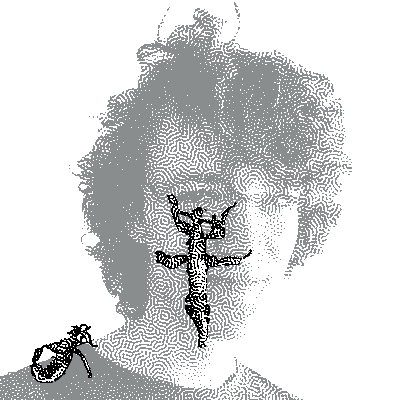
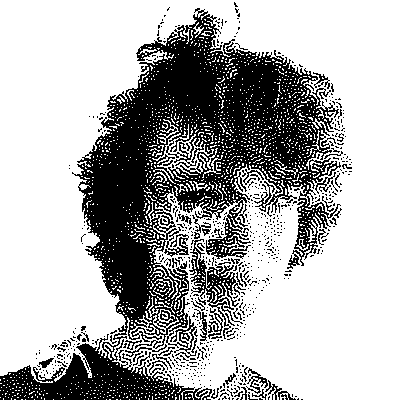
flashbang

diff --git a/main.css b/main.css
@@ -1,7 +1,9 @@
+/* CREDITS
+https://readable-css.freedomtowrite.org/
+*/
 /* COLOURS 
 white and black should be same hue
 limit to 4, use dithering for more 
-
 check and edit contrast at https://webaim.org/resources/contrastchecker/
 
 bg = background
@@ -9,30 +11,7 @@ fg = foreground (text)
 pri = primary (internal links)
 sec = secondary (external links, highlights etc.)
 */
-
-/* light mode */
-/*
---bg : var(--white);
---fg: var(--black);
---pri: var(--green);
---sec: var(--red);
-*/
-
-/* dark mode */
-/*
---bg : var(--black);
---fg: var(--white);
---pri: var(--green);
---sec: var(--red);
-*/
-
 :root {
-    /* previously */
-    --pri: olive;
-    --sec: firebrick;
-    /* --white: bisque;
-    --black: #111111; */
-
     /* https://lospec.com/palette-list/vintage-ruby */
     /* --pri: #868645;
     --sec: #792639; */
@@ -43,9 +22,8 @@ sec = secondary (external links, highlights etc.)
     /* nice for dark mode */
     /* --pri: #647859;
     --sec: #7c3838; */
-    --black: #1E1D11;
-    --white: #F8F7F2;
-
+    /* --black: #1E1D11; */
+    /* --white: #F8F7F2; */
 
     /* https://pokemondb.net/sprites/xatu */
     /* --pri: #52BD6B;
@@ -53,33 +31,33 @@ sec = secondary (external links, highlights etc.)
     /* --white: #EFEFEF;
     --black: #0E0D11; */
 
-    --fg: var(--black); --bg: var(--white);
+    --black: #000000; 
+    --white: #FFFFFF;
+    --pri: olive;
+    --sec:  #990000;
+    --fg: var(--black); 
+    --bg: var(--white);
 }
-
 /* DARK MODE */
 @media (prefers-color-scheme: dark) {
     :root {--bg: var(--black); --fg: var(--white);}
 
-    /* img darkmode from https://wiki.xxiivv.com/links/main.css */
-    img[src*="svg"], img[src*="png"] { 
+    /* from https://wiki.xxiivv.com/links/main.css */
+    /* img[src*="svg"], img[src*="png"] */ * {
         /* color: var(--bg);
         background-color: var(--fg);  */
-        filter:invert(1) hue-rotate(180deg);
+        filter:invert(1)  hue-rotate(180deg);
     } 
 }
-
-/* ?? */
-* {
+* { /* ?? */
     box-sizing: border-box; 
 }
-
 html {
     max-width: 900px;
 	margin: 0 auto;
     margin-right: auto;
     margin-left: 24px
 }
-
 body {
     /* display: flex;
 	flex-direction: row;
@@ -90,28 +68,20 @@ body {
     background-color: var(--bg);
     color: var(--fg);
 }
-
+header pre {
+    font-size: 1.2vw; /* magic number to get textmode header always fitting viewport */
+}
 main, footer {
     max-width: 700px;
     padding: 12px 24px 24px 24px;
 }
-
 aside {
     text-align: center;
 }
-
 img {
-    border:dotted 1px;
+    image-rendering: crisp-edges;
+    /* border: wavy black 1px; */
 }
-
-/* stretch to always fit on screen */
-header pre {
-    font-size: 1.75vw; /* magic number to get textmode header always fitting viewport */
-}
-pre a, pre a:hover {
-    text-decoration: none;
-}
-
 footer{
     text-align: center;
 }
@@ -119,13 +89,15 @@ footer img, a img {
     stroke: var(--pri);
     height: 32px;
 }
-
-/* links */
+/* LINKS */
+pre a, pre a:hover {
+    text-decoration: none;
+}
 a, a:visited {
     color: var(--fg);
     text-decoration-line: underline;
+    text-decoration-style: solid;
     text-decoration-thickness: 1px;
-    /* text-decoration-style: dotted; */
     text-decoration-color: var(--pri);
 }
 a:hover {
@@ -137,31 +109,17 @@ a[target="_blank"]{
     color: var(--fg);
     text-decoration-color: var(--sec);
 }
-/* show biohazard signs for commercial content silos */
+/* TODO show biohazard signs for commercial content silos */
 a[target="_blank"]:hover{
     color: var(--sec);
 }
-a[target="_blank"]:after {
+a[target="_blank"]::after {
     /* content: "↝"; */
     content: "~"; 
     color: var(--sec);
     text-decoration: none;
 }
-
-
-/* table {
-    width: 100px; 
-    height: 100px;
-} */
-
-table td {
-    width: 100px;
-}
-
-table tr {
-    width: 100px
-}
-
+/* FLAIR */
 hr {
     border: none;
     /* border-top: 3px double #333; */
@@ -170,10 +128,19 @@ hr {
     text-align: center;
     height: 2px;
   }
-
 hr::after {
-    content: '⁂';
+    content: '⁂'; /* &#8258; &#x2042; */
     padding: 0 4px;
     position: relative;
     top: -13px;
   }
+/* table {
+    width: 100px; 
+    height: 100px;
+} */
+table td {
+    width: 100px;
+}
+table tr {
+    width: 100px
+}

diff --git a/index.html b/index.html
@@ -17,24 +17,29 @@
 
 <body>
 <header>
-<pre><a href="./index.html" style="color: var(--sec)">
+<figure role="img" alt="orf"><pre><a href="./index.html" style="color:var(--sec);">
 *.         __*_     -___         .-*-_                                                   ~ <!--~radiofréquence onirique~-->
   .       /.   !   /    \      ./      .                                       .  
    .     /.    | ./     /   __/___        .                            .
     .   !     /  / .       ./                .                   .
      .*.|____/  /    . * ./                      .    *    .
 
-</a></pre>
+</a></pre></figure>
 <!-- <h1>orf.place</h1> -->
 </header>
 <main>
     <!-- <nav>
     <a href="about">about</a>
     </nav> -->
-    <p>hiya! I'm <a href="./about" style="color:var(--pri);" alt="a grayscale portrait of a person with two stick insects, one in the middle of their face and one on their shoulder.">Olive</a> and this is my place on the <a href="web.html">web</a> :]</p>
+    <p>hiya! I'm <a href="./about" style="color:var(--pri);">Olive</a> and this is my place on the <a href="web.html">web</a> :]</p>
     <p>I love making stuff with my computer &mdash; <a target="_blank" href="https://eatallyourdarlings.itch.io">games</a>, writing, <a href="textmode.html">textmode</a>, pixel art, music, 3D stuff, whateva.</p>
     <p>just got started on making this site, watch this space!</p>
-    <aside><img src="./works/bugface-transparent.png" style="width: 400px;"></aside>       
+    <aside>
+        <figure aria-labelleddby="figcaption">
+            <img  src="./works/bugface.png" alt="a grayscale portrait of a person with two stick insects, one in the middle of their face and one on their shoulder.">
+        <figcaption>me n the girls</figcaption>
+        </figure>
+    </aside>       
     <!-- <p>find my games at <a target="_blank" href="https://eatallyourdarlings.itch.io">eatallyourdarlings.itch.io</a></p> -->
     <!-- <p>sometimes I write</p> -->
 </main>
@@ -42,7 +47,7 @@
     <!-- <p style="color: var(--white);">if you can see this text, you should try switching your device to light mode friend :]</p> -->
     <hr>
     <section id="badges">
-        <a href="./license.html">license<!-- <img src="assets/vectors/f2f.svg" alt="F2F license"> --></a>
+        <a href="./license.html">license<!-- <img src="assets/vectors/f2f.svg" alt="license"> --></a>
         <!-- <a href="./style.html">style</a> -->
         <!-- <a href="./about/index.html">about</a> -->
     </section>

diff --git a/style.html b/style.html
@@ -15,6 +15,7 @@ header text
         changes width with the window
 </pre>
 </header>
+<main>
     <h1>heading 1</h1>
     <p>text under h1</p>
     <pre>
@@ -22,6 +23,7 @@ header text
         f ormatte d 
             t e xt
     </pre>
+
     <h2>heading 2</h2>
     <p>text under h2</p>
     <table>
@@ -46,5 +48,9 @@ header text
     </table>
     <p><a href="./main.css">internal link</a></p>
     <p><a target="_blank" href="https://wiki.xxiivv.com/site/permacomputing">external link</a></p>
+</main>
+<footer>
+    footer
+</footer>
 </body>
 </html>
